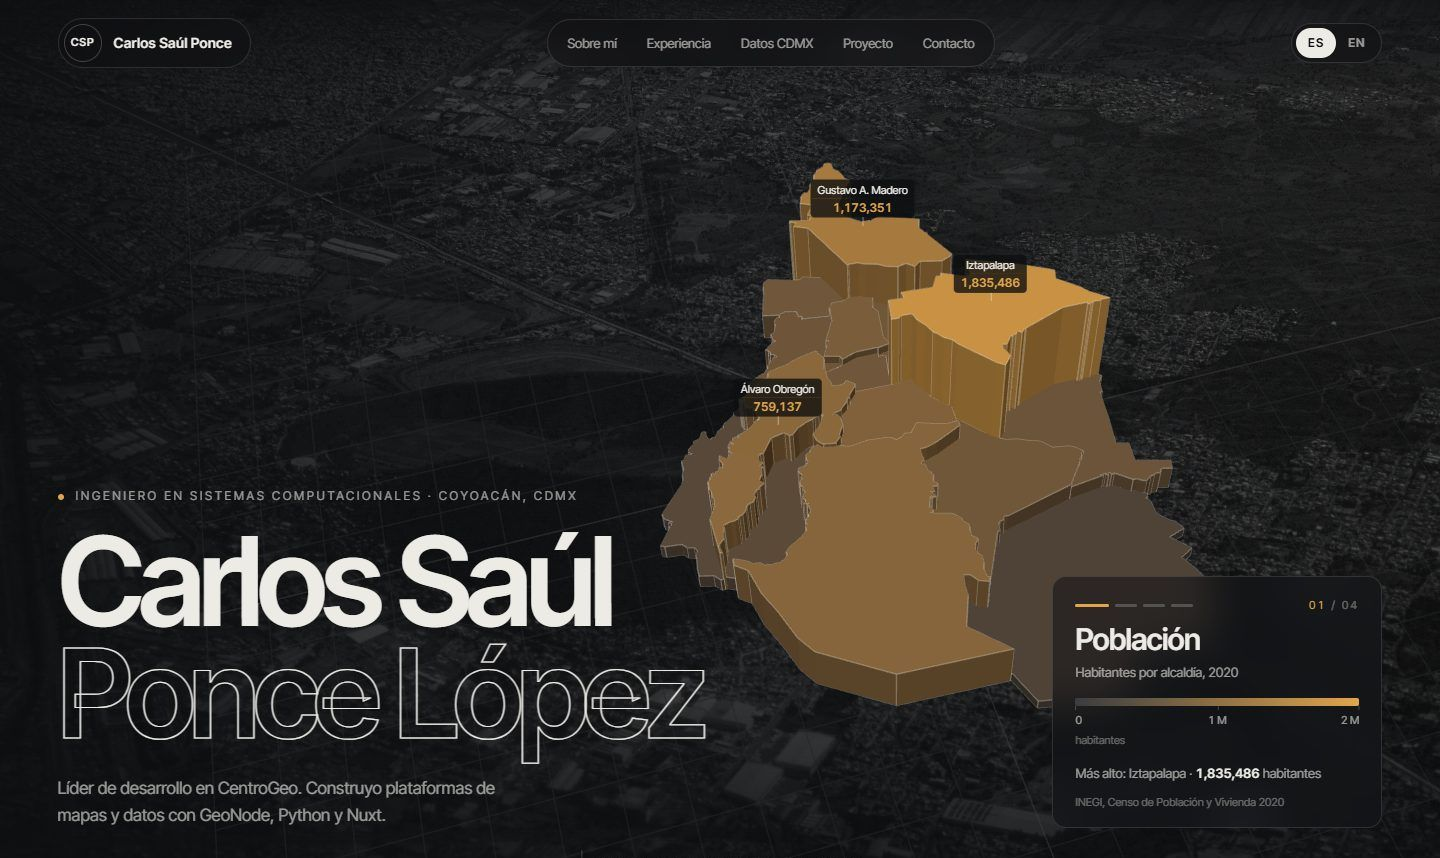
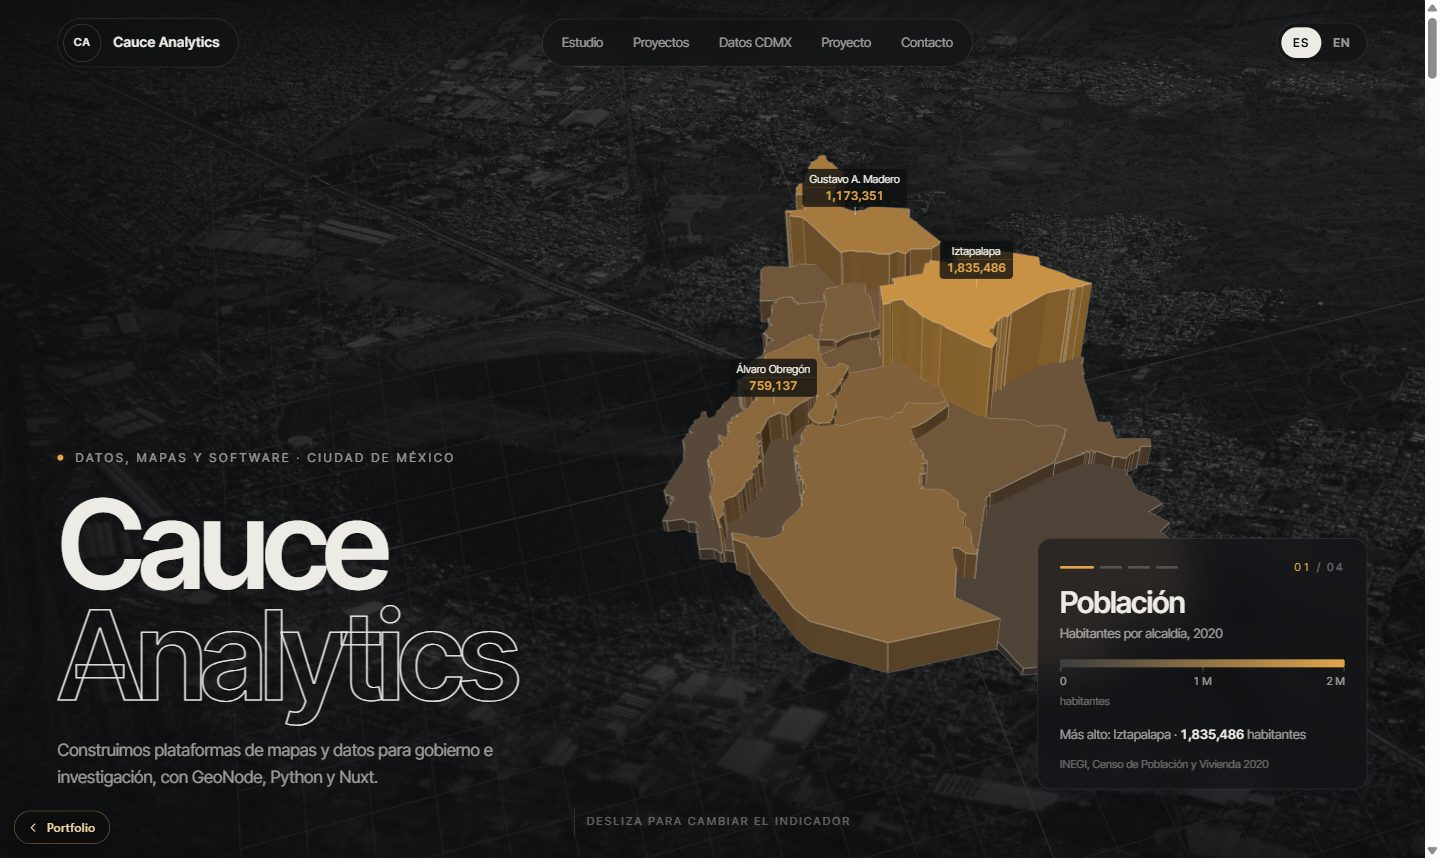
Rebrand the CDMX data site in the portfolio as Cauce Analytics
Claude-Session: https://claude.ai/code/session_011MrbMtx6tpnZirwmBDQgq5

diff --git a/web-portfolio/saul/index.html b/web-portfolio/saul/index.html
@@ -1,10 +1,11 @@
 <!doctype html>
 <html lang="es">
 <head>
+<meta name="robots" content="noindex">
   <meta charset="utf-8">
   <meta name="viewport" content="width=device-width, initial-scale=1">
-  <title>Carlos Saúl Ponce López · Datos, mapas y software</title>
-  <meta name="description" content="Ingeniero en Sistemas Computacionales en Coyoacán, CDMX. Líder de desarrollo SIG en CentroGeo. Mapas, datos abiertos y visualización.">
+  <title>Cauce Analytics · Datos, mapas y software</title>
+  <meta name="description" content="Cauce Analytics, estudio de datos en Coyoacán, CDMX. Mapas, datos abiertos y visualización.">
   <meta name="theme-color" content="#0d0e10">
   <link rel="preload" href="assets/fonts/intertight-var.woff2" as="font" type="font/woff2" crossorigin>
   <link rel="preload" href="data/cdmx.json" as="fetch" crossorigin>
@@ -23,12 +24,12 @@
 
   <header class="nav">
     <a href="#top" class="nav__logo" aria-label="Inicio">
-      <span class="nav__mark">CSP</span>
-      <span class="nav__name">Carlos Saúl Ponce</span>
+      <span class="nav__mark">CA</span>
+      <span class="nav__name">Cauce Analytics</span>
     </a>
     <nav class="nav__links" aria-label="Principal">
-      <a href="#sobre" data-i18n="nav.about">Sobre mí</a>
-      <a href="#experiencia" data-i18n="nav.exp">Experiencia</a>
+      <a href="#sobre" data-i18n="nav.about">Estudio</a>
+      <a href="#experiencia" data-i18n="nav.exp">Proyectos</a>
       <a href="#datos" data-i18n="nav.data">Datos CDMX</a>
       <a href="#proyectos" data-i18n="nav.projects">Proyecto</a>
       <a href="#contacto" data-i18n="nav.contact">Contacto</a>
@@ -52,12 +53,12 @@
         <div class="map-labels map-labels--hero" aria-hidden="true"></div>
 
         <div class="hero__content">
-          <p class="eyebrow"><span class="dot"></span> <span data-i18n="hero.eyebrow">Ingeniero en Sistemas Computacionales · Coyoacán, CDMX</span></p>
+          <p class="eyebrow"><span class="dot"></span> <span data-i18n="hero.eyebrow">Datos, mapas y software · Ciudad de México</span></p>
           <h1 class="hero__title">
-            <span class="line">Carlos Saúl</span>
-            <span class="line line--b">Ponce López</span>
+            <span class="line">Cauce</span>
+            <span class="line line--b">Analytics</span>
           </h1>
-          <p class="hero__lede" data-i18n="hero.lede">Líder de desarrollo en CentroGeo. Construyo plataformas de mapas y datos con GeoNode, Python y Nuxt.</p>
+          <p class="hero__lede" data-i18n="hero.lede">Construimos plataformas de mapas y datos para gobierno e investigación, con GeoNode, Python y Nuxt.</p>
         </div>
 
         <!-- Indicator caption + legend for the hero map -->
@@ -83,15 +84,15 @@
       </div>
       <div class="plate__veil"></div>
       <div class="about__inner wrap">
-        <p class="eyebrow"><span class="num">01</span> <span data-i18n="about.eyebrow">Sobre mí</span></p>
+        <p class="eyebrow"><span class="num">01</span> <span data-i18n="about.eyebrow">El estudio</span></p>
         <h2 class="h2 reveal-lines" data-i18n="about.title">Ingeniería, mapas y datos <em>al servicio de la ciudad.</em></h2>
         <div class="about__grid">
-          <p class="about__text glass" data-i18n="about.text">Soy Ingeniero en Sistemas Computacionales y vivo en Coyoacán. Hoy dirijo el equipo de desarrollo del área de Sistemas de Información Geográfica en CentroGeo. Antes fui Subdirector de Sistemas de Información y Portales Web en el INECC. Estudié la Maestría en Análisis y Visualización de Big Data en UNIR.</p>
+          <p class="about__text glass" data-i18n="about.text">Somos un estudio de datos en Coyoacán. Diseñamos y construimos plataformas de información geográfica, portales de datos abiertos y tableros que explican la ciudad con gráficas y mapas claros.</p>
           <dl class="facts glass">
-            <div><dt data-i18n="about.f1k">Hoy</dt><dd data-i18n="about.f1v">Líder de desarrollo, CentroGeo</dd></div>
-            <div><dt data-i18n="about.f2k">Maestría</dt><dd data-i18n="about.f2v">Big Data, UNIR (2023 a 2025)</dd></div>
+            <div><dt data-i18n="about.f1k">Hacemos</dt><dd data-i18n="about.f1v">Plataformas SIG y tableros</dd></div>
+            <div><dt data-i18n="about.f2k">Especialidad</dt><dd data-i18n="about.f2v">Big Data y visualización</dd></div>
             <div><dt data-i18n="about.f3k">Base</dt><dd>Coyoacán, Ciudad de México</dd></div>
-            <div><dt data-i18n="about.f4k">Idiomas</dt><dd data-i18n="about.f4v">Español nativo · Inglés profesional</dd></div>
+            <div><dt data-i18n="about.f4k">Idiomas</dt><dd data-i18n="about.f4v">Español e inglés</dd></div>
           </dl>
         </div>
       </div>
@@ -105,15 +106,15 @@
       </div>
       <div class="plate__veil plate__veil--strong"></div>
       <div class="exp__inner wrap">
-        <p class="eyebrow"><span class="num">02</span> <span data-i18n="exp.eyebrow">Experiencia</span></p>
-        <h2 class="h2" data-i18n="exp.title">Trayectoria</h2>
+        <p class="eyebrow"><span class="num">02</span> <span data-i18n="exp.eyebrow">Proyectos</span></p>
+        <h2 class="h2" data-i18n="exp.title">Trabajo reciente</h2>
         <ol class="timeline">
           <li class="tl glass lift" data-card>
-            <div class="tl__side"><p class="tl__date" data-i18n="exp.1d">Mayo 2026 a hoy</p><div class="tl__span" data-span="2026.33,2026.85"></div></div>
+            <div class="tl__side"><p class="tl__date" data-i18n="exp.1d">2026</p><div class="tl__span" data-span="2026.33,2026.85"></div></div>
             <div class="tl__body">
-              <h3 class="tl__role" data-i18n="exp.1r">Líder de equipo de desarrollo</h3>
-              <p class="tl__org" data-i18n="exp.1o">CentroGeo · Equipo de Sistemas de Información Geográfica</p>
-              <p class="tl__text" data-i18n="exp.1t">Dirijo al equipo que desarrolla la plataforma de mapas: GeoNode como catálogo de capas, backend en JavaScript y Python y frontend en Nuxt. Planeo y entrego el trabajo en ciclos ágiles mensuales.</p>
+              <h3 class="tl__role" data-i18n="exp.1r">Plataforma de mapas</h3>
+              <p class="tl__org" data-i18n="exp.1o">Centro de investigación · Información geográfica</p>
+              <p class="tl__text" data-i18n="exp.1t">La plataforma de mapas completa: GeoNode como catálogo de capas, backend en JavaScript y Python y frontend en Nuxt, entregada en ciclos ágiles mensuales.</p>
               <ul class="chips"><li data-i18n="exp.1c0">SIG</li><li>GeoNode</li><li>Python</li><li>Django</li><li>JavaScript</li><li>Nuxt</li><li data-i18n="exp.1c">Ciclos ágiles mensuales</li></ul>
             </div>
             <div class="tl__3d" data-scene="ex-centrogeo" aria-hidden="true"></div>
@@ -121,9 +122,9 @@
           <li class="tl glass lift" data-card>
             <div class="tl__side"><p class="tl__date" data-i18n="exp.2d">2023 a 2024</p><div class="tl__span" data-span="2023,2025"></div></div>
             <div class="tl__body">
-              <h3 class="tl__role" data-i18n="exp.2r">Subdirector de Sistemas de Información y Portales Web</h3>
-              <p class="tl__org" data-i18n="exp.2o">INECC, Instituto Nacional de Ecología y Cambio Climático</p>
-              <p class="tl__text" data-i18n="exp.2t">Estuve a cargo de los sistemas de información y de los portales web del instituto federal que estudia el medio ambiente y el clima de México: que la información estuviera en orden y que los portales la publicaran.</p>
+              <h3 class="tl__role" data-i18n="exp.2r">Sistemas de información y portales web</h3>
+              <p class="tl__org" data-i18n="exp.2o">Institución federal de medio ambiente y clima</p>
+              <p class="tl__text" data-i18n="exp.2t">Sistemas de información y portales web para publicar en orden los datos ambientales y de clima del país.</p>
               <ul class="chips"><li data-i18n="exp.2c1">Sistemas de información</li><li data-i18n="exp.2c2">Portales web</li><li data-i18n="exp.2c3">Bases de datos</li><li>MySQL</li><li>Oracle</li><li data-i18n="exp.2c4">Dirección de equipo</li></ul>
             </div>
             <div class="tl__3d" data-scene="ex-inecc" aria-hidden="true"></div>
@@ -131,9 +132,9 @@
           <li class="tl glass lift" data-card>
             <div class="tl__side"><p class="tl__date" data-i18n="exp.3d">2021 a 2023</p><div class="tl__span" data-span="2021,2024"></div></div>
             <div class="tl__body">
-              <h3 class="tl__role" data-i18n="exp.3r">QA Tester funcional</h3>
-              <p class="tl__org" data-i18n="exp.3o">Keywords Studios · servicios globales para videojuegos</p>
-              <p class="tl__text" data-i18n="exp.3t">Probé funciones antes de que llegaran a los usuarios: seguir cada caso de prueba, encontrar fallas, reproducirlas paso a paso y documentarlas para que el equipo de desarrollo las corrigiera.</p>
+              <h3 class="tl__role" data-i18n="exp.3r">Pruebas funcionales</h3>
+              <p class="tl__org" data-i18n="exp.3o">Estudio global de videojuegos</p>
+              <p class="tl__text" data-i18n="exp.3t">Pruebas de funciones antes de llegar a los usuarios: cada caso de prueba, cada falla reproducida paso a paso y documentada para corregirla.</p>
               <ul class="chips"><li data-i18n="exp.3c1">Pruebas funcionales</li><li data-i18n="exp.3c2">Reporte de fallas</li><li data-i18n="exp.3c3">Casos de prueba</li></ul>
             </div>
             <div class="tl__3d" data-scene="ex-keywords" aria-hidden="true"></div>
@@ -141,9 +142,9 @@
           <li class="tl glass lift" data-card>
             <div class="tl__side"><p class="tl__date" data-i18n="exp.4d">2020 a 2021</p><div class="tl__span" data-span="2020,2022"></div></div>
             <div class="tl__body">
-              <h3 class="tl__role" data-i18n="exp.4r">Desarrollador web independiente</h3>
-              <p class="tl__org" data-i18n="exp.4o">Proyectos propios</p>
-              <p class="tl__text" data-i18n="exp.4t">Construí sitios web de principio a fin por mi cuenta: diseño, programación y publicación, cada uno a la medida de quien lo pedía.</p>
+              <h3 class="tl__role" data-i18n="exp.4r">Sitios web a la medida</h3>
+              <p class="tl__org" data-i18n="exp.4o">Clientes independientes</p>
+              <p class="tl__text" data-i18n="exp.4t">Sitios web de principio a fin: diseño, programación y publicación, cada uno a la medida de quien lo pide.</p>
               <ul class="chips"><li>JavaScript</li><li data-i18n="exp.4c1">Diseño web</li><li data-i18n="exp.4c2">Publicación</li></ul>
             </div>
             <div class="tl__3d" data-scene="ex-freelance" aria-hidden="true"></div>
@@ -151,18 +152,18 @@
           <li class="tl tl--edu glass lift" data-card>
             <div class="tl__side"><p class="tl__date" data-i18n="exp.5d">2023 a 2025</p><div class="tl__span" data-span="2023,2026"></div></div>
             <div class="tl__body">
-              <h3 class="tl__role" data-i18n="exp.5r">Maestría en Análisis y Visualización de Big Data</h3>
-              <p class="tl__org" data-i18n="exp.5o">UNIR, Universidad Internacional de La Rioja</p>
-              <p class="tl__text" data-i18n="exp.5t">Cómo trabajar con grandes volúmenes de datos y explicarlos con gráficas y mapas claros. Es la base de los tableros de la Ciudad de México en este sitio.</p>
+              <h3 class="tl__role" data-i18n="exp.5r">Análisis y visualización de Big Data</h3>
+              <p class="tl__org" data-i18n="exp.5o">Especialidad del estudio</p>
+              <p class="tl__text" data-i18n="exp.5t">Grandes volúmenes de datos explicados con gráficas y mapas claros. Es la base de los tableros de la Ciudad de México en este sitio.</p>
               <ul class="chips"><li>Big Data</li><li data-i18n="exp.5c1">Visualización</li><li>Python</li></ul>
             </div>
             <div class="tl__3d" data-scene="ex-master" aria-hidden="true"></div>
           </li>
           <li class="tl tl--edu glass lift" data-card>
-            <div class="tl__side"><p class="tl__date" data-i18n="exp.6d">Licenciatura</p></div>
+            <div class="tl__side"><p class="tl__date" data-i18n="exp.6d">Base</p></div>
             <div class="tl__body">
-              <h3 class="tl__role" data-i18n="exp.6r">Ingeniería en Sistemas Computacionales</h3>
-              <p class="tl__text" data-i18n="exp.6t">La base técnica: programación, bases de datos y redes de computadoras.</p>
+              <h3 class="tl__role" data-i18n="exp.6r">Ingeniería de sistemas</h3>
+              <p class="tl__text" data-i18n="exp.6t">La base técnica: programación, bases de datos y redes.</p>
               <ul class="chips"><li data-i18n="exp.6c1">Programación</li><li data-i18n="exp.6c2">Bases de datos</li><li data-i18n="exp.6c3">Redes Cisco: OSPF, BGP, EIGRP</li></ul>
             </div>
             <div class="tl__3d" data-scene="ex-degree" aria-hidden="true"></div>
@@ -303,12 +304,12 @@
           <figcaption class="contact__cap"><b data-i18n="ct.capT">Una ruta clara</b><span data-i18n="ct.cap">Idea → datos → mapa → publicación</span></figcaption>
         </figure>
       </div>
-      <p class="contact__mark" aria-hidden="true">Carlos Saúl Ponce López</p>
+      <p class="contact__mark" aria-hidden="true">Cauce Analytics</p>
     </section>
   </main>
 
   <footer class="foot wrap">
-    <p>© 2026 Carlos Saúl Ponce López</p>
+    <p>© 2026 Cauce Analytics</p>
     <details class="foot__credits">
       <summary data-i18n="foot.credits">Fuentes y créditos</summary>
       <div class="foot__body" data-credits></div>

diff --git a/web-portfolio/saul/js/i18n.js b/web-portfolio/saul/js/i18n.js
@@ -1,33 +1,33 @@
 // Spanish is the page's own text (read from the DOM). English lives here.
 const EN = {
   'loader': 'Loading 16 boroughs',
-  'nav.about': 'About', 'nav.exp': 'Experience', 'nav.skills': 'Skills', 'nav.data': 'CDMX data', 'nav.projects': 'Project', 'nav.contact': 'Contact',
-  'hero.eyebrow': 'Computer Systems Engineer · Coyoacán, Mexico City',
-  'hero.lede': 'Development Team Lead at CentroGeo. I build map and data platforms with GeoNode, Python and Nuxt.',
+  'nav.about': 'Studio', 'nav.exp': 'Projects', 'nav.skills': 'Skills', 'nav.data': 'CDMX data', 'nav.projects': 'Project', 'nav.contact': 'Contact',
+  'hero.eyebrow': 'Data, maps and software · Mexico City',
+  'hero.lede': 'We build map and data platforms for government and research, with GeoNode, Python and Nuxt.',
   'hero.scroll': 'Scroll to change the indicator',
-  'about.eyebrow': 'About',
+  'about.eyebrow': 'The studio',
   'about.title': 'Engineering, maps and data <em>for the city.</em>',
-  'about.text': 'I am a Computer Systems Engineer based in Coyoacán. Today I lead the development team of the Geographic Information Systems area at CentroGeo. Before that I was Deputy Director of Information Systems and Web Portals at INECC. I studied a Master’s in Big Data Analysis and Visualization at UNIR.',
-  'about.f1k': 'Now', 'about.f1v': 'Development Team Lead, CentroGeo',
-  'about.f2k': 'Master’s', 'about.f2v': 'Big Data, UNIR (2023 to 2025)',
-  'about.f3k': 'Based in', 'about.f4k': 'Languages', 'about.f4v': 'Spanish (native) · English (professional)',
-  'exp.eyebrow': 'Experience', 'exp.title': 'Career',
+  'about.text': 'We are a data studio in Coyoacán. We design and build geographic information platforms, open data portals and dashboards that explain the city with clear charts and maps.',
+  'about.f1k': 'We build', 'about.f1v': 'GIS platforms and dashboards',
+  'about.f2k': 'Focus', 'about.f2v': 'Big data and visualization',
+  'about.f3k': 'Based in', 'about.f4k': 'Languages', 'about.f4v': 'Spanish and English',
+  'exp.eyebrow': 'Projects', 'exp.title': 'Recent work',
   'exp.2d': '2023 to 2024', 'exp.3d': '2021 to 2023', 'exp.4d': '2020 to 2021', 'exp.5d': '2023 to 2025',
-  'exp.1d': 'May 2026 to now', 'exp.1r': 'Development Team Lead',
-  'exp.2r': 'Deputy Director of Information Systems and Web Portals', 'exp.2o': 'INECC, National Institute of Ecology and Climate Change',
-  'exp.3r': 'Functional QA Tester', 'exp.4r': 'Freelance Web Developer', 'exp.4o': 'Independent projects',
-  'exp.5r': 'Master’s in Big Data Analysis and Visualization', 'exp.6d': 'Bachelor’s', 'exp.6r': 'Computer Systems Engineering',
+  'exp.1d': '2026', 'exp.1r': 'Mapping platform',
+  'exp.2r': 'Information systems and web portals', 'exp.2o': 'Federal environment and climate institute',
+  'exp.3r': 'Functional testing', 'exp.4r': 'Custom websites', 'exp.4o': 'Independent clients',
+  'exp.5r': 'Big data analysis and visualization', 'exp.6d': 'Foundation', 'exp.6r': 'Systems engineering',
   'skills.eyebrow': 'Skills', 'skills.title': 'What I do, <em>in plain words</em>',
   'sk.1h': 'Maps and GIS', 'sk.1p': 'Turning data with a location into maps that answer questions: where people live, where something is missing, how the city changes.',
-  'sk.1e': 'Where: the GeoNode platform of the GIS team at CentroGeo.',
+  'sk.1e': 'Where: GeoNode mapping platforms.',
   'sk.2h': 'Python servers and data', 'sk.2p': 'Programs that receive, clean and deliver information so a page or a map can show it.',
-  'sk.2e': 'Where: the Python and JavaScript backend of the team at CentroGeo.',
+  'sk.2e': 'Where: Python and JavaScript backends.',
   'sk.3h': 'Websites and portals', 'sk.3p': 'Fast, clear sites that people use every day, from design to launch.',
-  'sk.3e': 'Where: the Nuxt frontend at CentroGeo and the web portals at INECC.',
+  'sk.3e': 'Where: Nuxt frontends and public web portals.',
   'sk.4h': 'Databases', 'sk.4p': 'Keeping information in order so it can be queried quickly and without errors, even with millions of records.',
-  'sk.4e': 'Where: the information systems I led at INECC.',
+  'sk.4e': 'Where: government information systems.',
   'sk.5h': 'Quality testing', 'sk.5p': 'Checking every feature before it reaches people, finding bugs and documenting them so they get fixed.',
-  'sk.5e': 'Where: functional QA at Keywords Studios, 2021 to 2023.',
+  'sk.5e': 'Where: functional QA for a global game studio.',
   'sk.6h': 'Networks', 'sk.6p': 'How an organization’s computers are connected and which way information travels between them.',
   'sk.6e': 'Background: Cisco networking with OSPF, BGP and EIGRP routing.',
   'data.eyebrow': 'Mexico City data', 'data.title': 'The city <em>in numbers</em>',
@@ -52,20 +52,20 @@ const EN = {
   'ct.eyebrow': 'Contact', 'ct.title': 'A <em>data or mapping</em> project?', 'ct.k1': 'Location', 'ct.k2': 'Languages',
   'foot.credits': 'Sources and credits',
   // v5: fuller Experience, Projects, Contact and the two scroll scenes
-  'exp.1o': 'CentroGeo · Geographic Information Systems team',
-  'exp.1t': 'I lead the team that builds the mapping platform: GeoNode as the catalog of layers, a JavaScript and Python backend and a Nuxt frontend. I plan and deliver the work in monthly agile cycles.',
+  'exp.1o': 'Research center · Geographic information',
+  'exp.1t': 'The full mapping platform: GeoNode as the catalog of layers, a JavaScript and Python backend and a Nuxt frontend, delivered in monthly agile cycles.',
   'exp.1c0': 'GIS', 'exp.1c': 'Monthly agile cycles',
-  'exp.2t': 'I was in charge of the information systems and web portals of the federal institute that studies Mexico’s environment and climate: keeping the information in order and having the portals publish it.',
+  'exp.2t': 'Information systems and web portals that publish the country’s environment and climate data in order.',
   'exp.2c1': 'Information systems', 'exp.2c2': 'Web portals', 'exp.2c3': 'Databases', 'exp.2c4': 'Team leadership',
-  'exp.3o': 'Keywords Studios · global services for video games',
-  'exp.3t': 'I tested features before they reached users: following each test case, finding bugs, reproducing them step by step and documenting them so the development team could fix them.',
+  'exp.3o': 'Global video game studio',
+  'exp.3t': 'Testing features before they reach users: every test case, every bug reproduced step by step and documented so it can be fixed.',
   'exp.3c1': 'Functional testing', 'exp.3c2': 'Bug reporting', 'exp.3c3': 'Test cases',
-  'exp.4t': 'I built websites end to end on my own: design, code and launch, each one made to fit whoever asked for it.',
+  'exp.4t': 'Websites end to end: design, code and launch, each one made to fit the client.',
   'exp.4c1': 'Web design', 'exp.4c2': 'Launch',
-  'exp.5o': 'UNIR, International University of La Rioja',
-  'exp.5t': 'How to work with large volumes of data and explain them with clear charts and maps. It is the basis of the Mexico City dashboards on this site.',
+  'exp.5o': 'Studio focus',
+  'exp.5t': 'Large volumes of data explained with clear charts and maps. It is the basis of the Mexico City dashboards on this site.',
   'exp.5c1': 'Visualization',
-  'exp.6t': 'The technical base: programming, databases and computer networks.',
+  'exp.6t': 'The technical base: programming, databases and networks.',
   'exp.6c1': 'Programming', 'exp.6c2': 'Databases', 'exp.6c3': 'Cisco networking: OSPF, BGP, EIGRP',
   'b1.eyebrow': 'From data to map', 'b1.title': '16 boroughs, <em>one city.</em>',
   'b1.k1': 'Residents, 2020', 'b1.k2': 'Area in km²',

diff --git a/web-portfolio/index.html b/web-portfolio/index.html
@@ -196,7 +196,7 @@
     { id:'halcyon', name:'Halcyon', en:{sub:'Orbital expeditions', d:'Deep-space imagery, a station in orbit and type that floats. Built to feel like the edge of the atmosphere.'}, es:{sub:'Expediciones orbitales', d:'Imágenes del espacio profundo, una estación en órbita y tipografía que flota. Hecho para sentirse al borde de la atmósfera.'} },
     { id:'miga', name:'Miga', en:{sub:'Sourdough bakery · Austin', d:'Editorial type filled with bread, a live open-or-closed sign and an order-ahead tray.'}, es:{sub:'Panadería · Austin', d:'Tipografía editorial rellena de pan, letrero de abierto o cerrado en vivo y una charola para ordenar antes.'} },
     { id:'hadal', name:'Hadal', en:{sub:'Submersible descents', d:'Scroll is depth. Pressure, temperature and light change on screen as you go down to the sea floor.'}, es:{sub:'Descensos en submarino', d:'El scroll es profundidad. Presión, temperatura y luz cambian en pantalla mientras bajas al fondo del mar.'} },
-    { id:'saul', name:'Carlos Saúl <em>Ponce López</em>', client:true, en:{sub:'Engineer portfolio · CDMX', d:'A 3D map of Mexico City with live data charts: population, Metro and more, in Spanish and English.'}, es:{sub:'Portafolio de ingeniero · CDMX', d:'Un mapa 3D de la Ciudad de México con gráficas de datos: población, Metro y más, en español e inglés.'} },
+    { id:'saul', name:'Cauce <em>Analytics</em>', en:{sub:'Data studio · Mexico City', d:'A 3D map of Mexico City with live data charts: population, Metro and more, in Spanish and English.'}, es:{sub:'Estudio de datos · Ciudad de México', d:'Un mapa 3D de la Ciudad de México con gráficas de datos: población, Metro y más, en español e inglés.'} },
     { id:'smj-global', name:'SMJ <em>Global</em>', client:true, en:{sub:'Paralegal & admin services', d:'The whole site switches between English, Spanish, French and Haitian Creole with one tap.'}, es:{sub:'Servicios paralegales y administrativos', d:'Todo el sitio cambia entre inglés, español, francés y criollo haitiano con un toque.'} },
     { id:'monolith', name:'Monolith', en:{sub:'Architecture & engineering', d:'Black and white, all structure. You climb through the building as the projects come into view.'}, es:{sub:'Arquitectura e ingeniería', d:'Blanco y negro, pura estructura. Subes por el edificio mientras aparecen los proyectos.'} },
     { id:'maison-oriel', name:'Maison <em>Oriel</em>', en:{sub:'Interior atelier', d:'Warm, slow and tactile. Rooms that change with the light as you move through them.'}, es:{sub:'Taller de interiores', d:'Cálido, pausado y táctil. Espacios que cambian con la luz mientras los recorres.'} }
